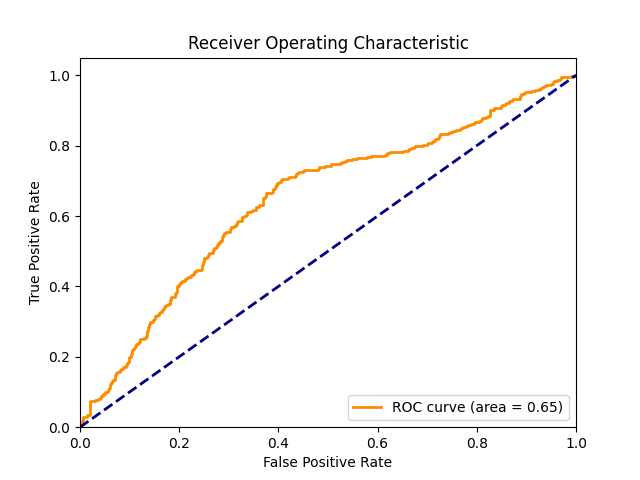
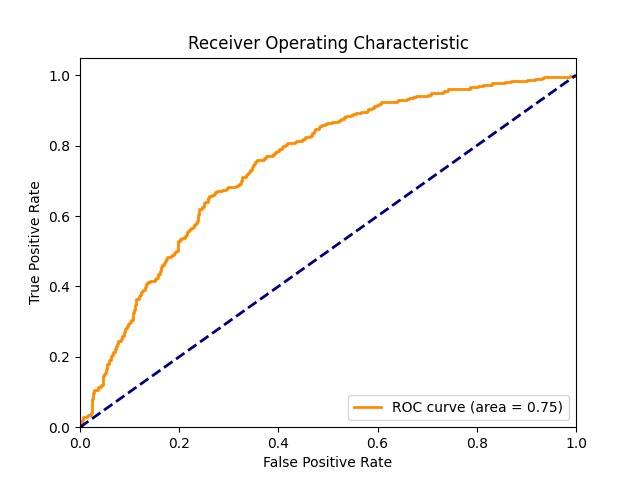
somehow reverted back to better model structure using complex siamese

diff --git a/src/network.py b/src/network.py
@@ -101,6 +101,81 @@ class complexSiamese(nn.Module):
 
         return [output1_pool3, output2_pool3], [output1_pool4, output2_pool4], [output1_pool5, output2_pool5]
 
+class complexSiameseExtended(nn.Module):
+    def __init__(self):
+        super(complexSiameseExtended, self).__init__()
+        # Define the architecture for the Siamese network
+        self.conv1 = nn.Conv2d(1, 32, kernel_size=3, padding=1)        
+        self.bn1 = nn.BatchNorm2d(32)
+        
+        self.conv2 = nn.Conv2d(32, 64, kernel_size=3, padding=1)
+        self.bn2 = nn.BatchNorm2d(64)
+        
+        self.conv3 = nn.Conv2d(64, 128, kernel_size=3, padding=1)    
+        self.bn3 = nn.BatchNorm2d(128)
+        
+        self.conv4 = nn.Conv2d(128, 256, kernel_size=3, padding=1)
+        self.bn4 = nn.BatchNorm2d(256)
+        
+        self.conv5 = nn.Conv2d(256, 256, kernel_size=3, padding=1)
+        self.bn5 = nn.BatchNorm2d(256)
+        
+        self.conv6 = nn.Conv2d(256, 512, kernel_size=3, padding=1)
+        self.bn6 = nn.BatchNorm2d(512)
+        
+        self.conv7 = nn.Conv2d(512, 512, kernel_size=3, padding=1)
+        self.bn7 = nn.BatchNorm2d(512)
+        
+        self.conv8 = nn.Conv2d(512, 1024, kernel_size=3, padding=1)
+        self.bn8 = nn.BatchNorm2d(1024)
+        
+        self.conv9 = nn.Conv2d(1024, 1024, kernel_size=3, padding=1)
+        self.bn9 = nn.BatchNorm2d(1024)
+        
+        self.conv10 = nn.Conv2d(1024, 2048, kernel_size=3, padding=1)
+        self.bn10 = nn.BatchNorm2d(2048)
+
+    def forward(self, input1, input2):
+        # Forward pass through the Siamese network for input1
+        output1_conv1 = F.relu(self.bn1(self.conv1(input1)))
+        output1_pool1 = F.max_pool2d(output1_conv1, kernel_size=2, stride=2)
+        output1_conv2 = F.relu(self.bn2(self.conv2(output1_pool1)))
+        output1_pool2 = F.max_pool2d(output1_conv2, kernel_size=2, stride=2)
+        output1_conv3 = F.relu(self.bn3(self.conv3(output1_pool2)))
+        output1_pool3 = F.max_pool2d(output1_conv3, kernel_size=2, stride=2)
+        output1_conv4 = F.relu(self.bn4(self.conv4(output1_pool3)))
+        output1_conv5 = F.relu(self.bn5(self.conv5(output1_conv4)))
+        output1_pool4 = F.max_pool2d(output1_conv5, kernel_size=2, stride=2)
+        output1_conv6 = F.relu(self.bn6(self.conv6(output1_pool4)))
+        output1_conv7 = F.relu(self.bn7(self.conv7(output1_conv6)))
+        output1_pool5 = F.max_pool2d(output1_conv7, kernel_size=2, stride=2)
+        output1_conv8 = F.relu(self.bn8(self.conv8(output1_pool5)))
+        output1_conv9 = F.relu(self.bn9(self.conv9(output1_conv8)))
+        output1_pool6 = F.max_pool2d(output1_conv9, kernel_size=2, stride=2)
+        output1_conv10 = F.relu(self.bn10(self.conv10(output1_pool6)))
+        output1_pool7 = F.max_pool2d(output1_conv10, kernel_size=2, stride=2)
+
+        # Forward pass through the Siamese network for input2
+        output2_conv1 = F.relu(self.bn1(self.conv1(input2)))
+        output2_pool1 = F.max_pool2d(output2_conv1, kernel_size=2, stride=2)
+        output2_conv2 = F.relu(self.bn2(self.conv2(output2_pool1)))
+        output2_pool2 = F.max_pool2d(output2_conv2, kernel_size=2, stride=2)
+        output2_conv3 = F.relu(self.bn3(self.conv3(output2_pool2)))
+        output2_pool3 = F.max_pool2d(output2_conv3, kernel_size=2, stride=2)
+        output2_conv4 = F.relu(self.bn4(self.conv4(output2_pool3)))
+        output2_conv5 = F.relu(self.bn5(self.conv5(output2_conv4)))
+        output2_pool4 = F.max_pool2d(output2_conv5, kernel_size=2, stride=2)
+        output2_conv6 = F.relu(self.bn6(self.conv6(output2_pool4)))
+        output2_conv7 = F.relu(self.bn7(self.conv7(output2_conv6)))
+        output2_pool5 = F.max_pool2d(output2_conv7, kernel_size=2, stride=2)
+        output2_conv8 = F.relu(self.conv8(output2_pool5))
+        output2_conv9 = F.relu(self.conv9(output2_conv8))
+        output2_pool6 = F.max_pool2d(output2_conv9, kernel_size=2, stride=2)
+        output2_conv10 = F.relu(self.conv10(output2_pool6))
+        output2_pool7 = F.max_pool2d(output2_conv10, kernel_size=2, stride=2)
+
+        return [output1_pool3, output2_pool3], [output1_pool5, output2_pool5], [output1_conv10, output2_conv10]
+    
 class complexSiameseNoPool(nn.Module):
     def __init__(self):
         super(complexSiameseNoPool, self).__init__()

diff --git a/src/main.py b/src/main.py
@@ -1,6 +1,6 @@
 import torch
 import torch.optim as optim
-from network import SimpleSiamese, complexSiamese, complexSiameseNoPool
+from network import SimpleSiamese, complexSiamese, complexSiameseNoPool, complexSiameseExtended
 from loss_functions import ConstractiveLoss, ConstractiveThresholdHingeLoss
 from loader import ShiftImage, aertsDataset, remindDataset, balance_dataset
 import os
@@ -312,7 +312,7 @@ if __name__ == "__main__":
                     image_ids=['t1_aligned_stripped'], save_dir=args.slice_dir,
                     skip=args.skip, tumor_sensitivity=0.30, transform=transform, load_slices=args.load_slices)
         subject_images = ConcatDataset([aertsImages, remindImages])
-        model_type = complexSiameseNoPool()
+        model_type = complexSiamese()
     pass
     # balance subject_images based on label
     
